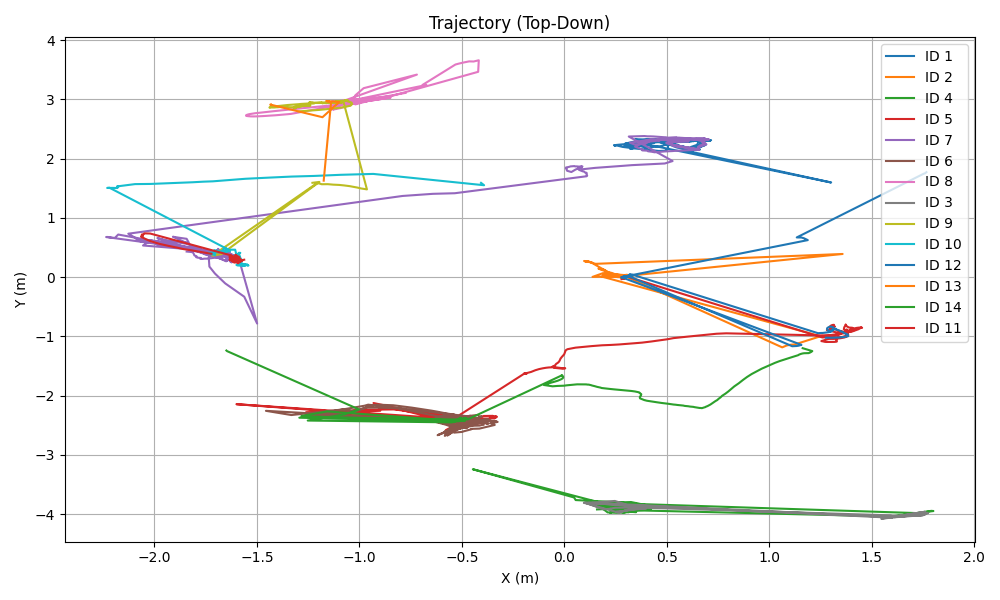
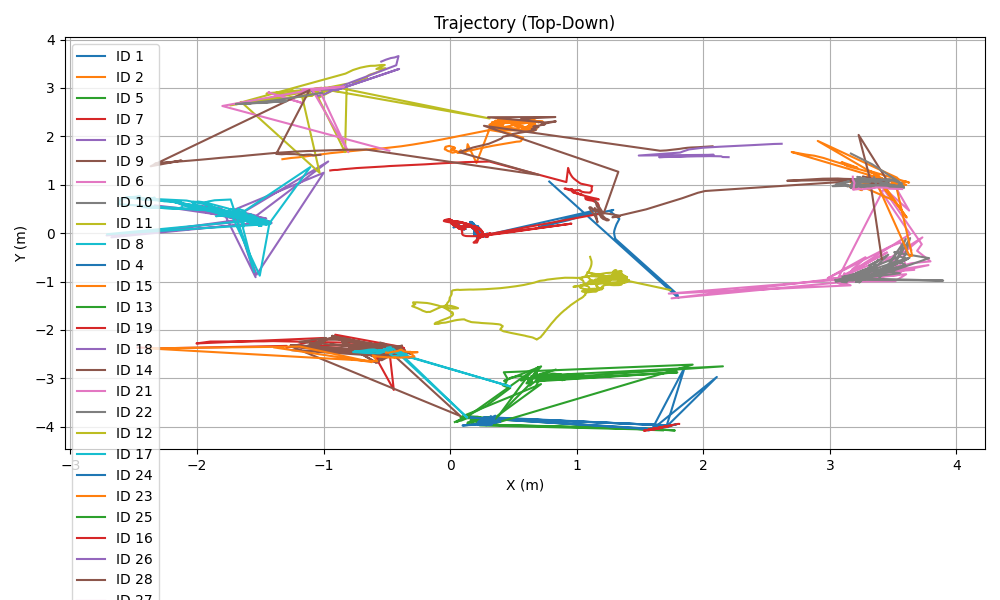
Update trajectory image to reflect recent changes in data visualization

diff --git a/pcdexercise/tracking-best.py b/pcdexercise/tracking-best.py
@@ -9,7 +9,6 @@ Robust multi-object human tracking in 3D point clouds.
 - Re-ID: spatial proximity
 - Output: tracking_results.json (unchanged schema)
 
-Author: Refactored for clean architecture & safety
 """
 
 import os